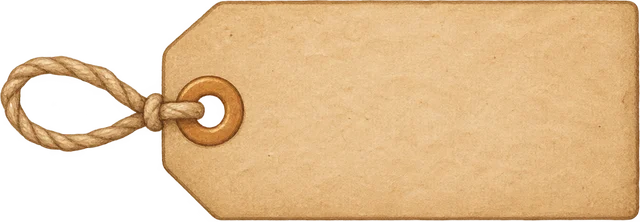
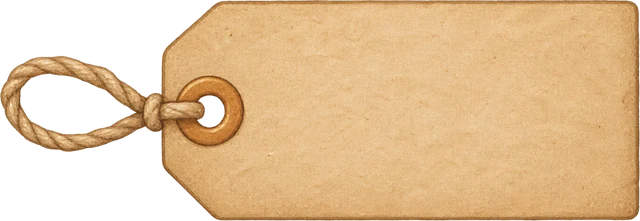
Nursery: echte Assets für Regalbrett, Steckschild und Wachssiegel
- scripts/make-nursery-assets.mjs: Halo (Alpha < 16) entfernen, Kantenpixel
  entsäumen, trimmen, WebP; Regalbrett als 3-Slice mit Metallhaltern in den
  Enden. luggage-tag.webp mit derselben Bereinigung neu erzeugt.
- Shelf: Brett aus drei Ebenen (Enden fest, Mitte gedehnt), Ware steht auf
  der Oberkante.
- PlantStake: Preis in wood-ink auf der Holztafel, Stab im Brett abgeschnitten.
- WaxSeal: Lv + Zahl in Creme in der Mulde (>= 4,56:1), -6 Grad.
- Schmale Regale verkleinern Steckschild und Siegel.
- robin-design: Nursery-Abschnitt mit Assets und Slice-Werten.

diff --git a/components/nursery/plant-stake.module.css b/components/nursery/plant-stake.module.css
@@ -1,43 +1,55 @@
-/* Plant stake — price board on a stick. PLACEHOLDER: dashed outlines in
-   the footprint of the coming asset. Text in ink on paper (≈ 10:1); the
-   painted stake keeps a light board so the price stays ≥ 4.5:1. */
+/* Plant stake — plant-stake.webp is 256 × 468: the board fills the full
+   width and the top 147 px (≈ 0.574 of the width), the stick runs below.
+   The element shows the board plus --stake-stick of the stick and clips
+   the rest, so the stake looks stuck into the shelf at its bottom edge.
+   Text: Fraunces in wood-ink, burnt in like the wooden sign button
+   (wood-ink on this light wood ≥ 7:1). */
 
 .stake {
-  display: inline-flex;
-  flex-direction: column;
-  align-items: center;
-  /* a stake is a small thing: a slight lean, opposite to nothing else in
-     the slot (the seal and tag sit elsewhere) */
-  transform: rotate(-3deg);
+  /* the shelf sets a smaller stake on narrow planks */
+  --stake-w: var(--shelf-stake-w, 4.75rem);
+  --stake-board-h: calc(var(--stake-w) * 147 / 256);
+  --stake-stick: 0.875rem;
+
+  position: relative;
+  display: block;
+  width: var(--stake-w);
+  height: calc(var(--stake-board-h) + var(--stake-stick));
+  overflow: hidden;
+  filter: var(--filter-wood);
+  /* a small lean from where it is stuck in */
+  transform: rotate(-2deg);
   transform-origin: 50% 100%;
 }
 
+.wood {
+  display: block;
+  width: 100%;
+  height: auto;
+  max-width: none;
+  -webkit-user-drag: none;
+  user-select: none;
+}
+
+/* The text box is the board, with room for its rounded rim. */
 .board {
-  display: inline-flex;
+  position: absolute;
+  top: 0;
+  left: 0;
+  width: 100%;
+  height: var(--stake-board-h);
+  display: flex;
   align-items: center;
+  justify-content: center;
   gap: 0.25rem;
-  min-width: 3.25rem;
-  padding: 0.25rem 0.5rem;
-  border: 1.5px dashed var(--color-ink-soft);
-  border-radius: 3px;
-  background: var(--color-paper);
-  filter: var(--filter-label);
+  padding: 0 0.3rem;
 }
 
 .price {
   font-family: var(--font-display), Georgia, serif;
   font-weight: 600;
-  font-size: 1rem;
-  line-height: 1.2;
-  color: var(--color-ink);
+  font-size: var(--shelf-stake-font, 1rem);
+  line-height: 1;
+  color: var(--color-wood-ink);
   white-space: nowrap;
-}
-
-.stick {
-  width: 0.3rem;
-  height: 1rem;
-  margin-top: -1px;
-  border: 1.5px dashed var(--color-ink-soft);
-  border-top: 0;
-  background: var(--color-paper-deep);
 }

diff --git a/components/nursery/shelf.module.css b/components/nursery/shelf.module.css
@@ -4,7 +4,7 @@
 
 .shelf {
   --stage-h: 9.5rem;
-  --plank-h: 1.5rem;
+  --plank-h: 2.25rem;
   --plank-overhang: 0.75rem;
   --slot-gap: 24px;
 
@@ -20,9 +20,14 @@
 
 .narrow {
   --stage-h: 8rem;
-  --plank-h: 1.25rem;
+  --plank-h: 1.875rem;
   --plank-overhang: 0.5rem;
   --slot-gap: 12px;
+  /* stake and seal scale down with the narrower slots (plant-stake,
+     wax-seal read these) */
+  --shelf-stake-w: 4.25rem;
+  --shelf-stake-font: 0.9375rem;
+  --shelf-seal-w: 3.5rem;
   gap: var(--space-6);
 }
 
@@ -47,32 +52,31 @@
 
 /* ---------- plank ---------- */
 
+/* shelf-plank-{left,middle,right}.webp, each 128 px high; the ends are
+   124 px wide and hold the metal brackets completely, the middle
+   (plain grain, 776 px) stretches between them. The board itself is the
+   top 62 % of the height, the brackets hang below it. The image's top
+   edge is the board's top edge, and the plank starts exactly at
+   --stage-h, so the goods stand on it, not in front of it. */
 .plank {
+  --plank-end: calc(var(--plank-h) * 124 / 128);
+
   position: absolute;
   top: var(--stage-h);
   left: calc(-1 * var(--plank-overhang));
   right: calc(-1 * var(--plank-overhang));
   height: var(--plank-h);
   pointer-events: none;
-}
-
-/* PLACEHOLDER: dashed board in the plank's footprint, a paper-deep fill
-   so it reads as a surface. */
-.plankPlaceholder {
-  border: 1.5px dashed var(--color-ink-soft);
-  border-radius: 3px;
-  background: var(--color-paper-deep);
-}
-
-/* Painted plank as 3-slice: the ends stay fixed, the middle tiles
-   (round) so the grain never smears. Slice values are for the coming
-   shelf-plank.webp — tune once it exists. */
-.plankAsset {
-  --plank-end-slice: 96;
-  --plank-end: 2.5rem;
-  border-style: solid;
-  border-width: 0 var(--plank-end);
-  border-image: var(--plank-src) 0 var(--plank-end-slice) fill / 0
-    var(--plank-end) round;
+  background-image: var(--plank-left), var(--plank-right), var(--plank-middle);
+  background-repeat: no-repeat;
+  background-position:
+    left top,
+    right top,
+    center top;
+  /* the middle reaches 1px under each end, so rounding never opens a gap */
+  background-size:
+    auto 100%,
+    auto 100%,
+    calc(100% - 2 * var(--plank-end) + 2px) 100%;
   filter: var(--filter-wood);
 }

diff --git a/components/nursery/shelf.tsx b/components/nursery/shelf.tsx
@@ -3,11 +3,21 @@
 import { useLayoutEffect, useRef, useState, type CSSProperties, type ReactNode } from "react";
 import styles from "./shelf.module.css";
 
-/** Painted plank (3-slice: fixed ends, tiled middle). null = dashed
-    placeholder until design-src/ui/shelf-plank.png exists; then convert
-    it to public/ui/shelf-plank.webp, set this path and tune the end
-    slice in shelf.module.css (.plankAsset). */
-const SHELF_PLANK_SRC: string | null = null;
+/** Painted plank as a 3-slice (original design-src/ui/shelf-plank.png,
+    cut by scripts/make-nursery-assets.mjs): both ends hold a metal
+    bracket and stay fixed, the plain-grain middle stretches. Each piece
+    is 128 px high, the ends 124 px wide (see .plank in shelf.module.css). */
+const SHELF_PLANK_SRC = {
+  left: "/ui/shelf-plank-left.webp",
+  middle: "/ui/shelf-plank-middle.webp",
+  right: "/ui/shelf-plank-right.webp",
+} as const;
+
+const PLANK_STYLE = {
+  "--plank-left": `url(${SHELF_PLANK_SRC.left})`,
+  "--plank-middle": `url(${SHELF_PLANK_SRC.middle})`,
+  "--plank-right": `url(${SHELF_PLANK_SRC.right})`,
+} as CSSProperties;
 
 /* Slot widths per item. Two per plank from 320 px (288 px inside the
    16 px gutters), up to six on wide screens. */
@@ -70,15 +80,7 @@ export function Shelf<T>({ items, getKey, renderItem, label }: ShelfProps<T>) {
     >
       {rows.map((row, index) => (
         <div key={index} className={styles.row}>
-          <span
-            className={`${styles.plank} ${SHELF_PLANK_SRC ? styles.plankAsset : styles.plankPlaceholder}`}
-            style={
-              SHELF_PLANK_SRC
-                ? ({ "--plank-src": `url(${SHELF_PLANK_SRC})` } as CSSProperties)
-                : undefined
-            }
-            aria-hidden="true"
-          />
+          <span className={styles.plank} style={PLANK_STYLE} aria-hidden="true" />
           {row.map((item) => (
             <div key={getKey(item)} role="listitem" className={styles.slot}>
               {renderItem(item)}

diff --git a/components/nursery/plant-stake.tsx b/components/nursery/plant-stake.tsx
@@ -9,12 +9,11 @@ type PlantStakeProps = {
 
 const numberFormat = new Intl.NumberFormat("en-US");
 
-/** The price on a plant stake that sticks in front of the packet
-    (robin-design §3 Nursery). Coin icon + price in Fraunces as live
-    text on the board.
-    PLACEHOLDER material: dashed board on a dashed stick, same footprint
-    the painted plant-stake.webp will get (design-src/ui/plant-stake.png
-    is still missing). */
+/** The price on a plant stake in front of the packet (robin-design §3
+    Nursery). Painted stake public/ui/plant-stake.webp (original
+    design-src/ui/plant-stake.png); coin icon + price in Fraunces as live
+    text, burnt into the board in wood-ink. Only the top of the stick
+    shows — the rest is "in" the shelf. */
 export function PlantStake({ price, className = "" }: PlantStakeProps) {
   const value = Number.isFinite(price) ? Math.max(0, Math.round(price)) : 0;
   return (
@@ -23,11 +22,12 @@ export function PlantStake({ price, className = "" }: PlantStakeProps) {
       role="img"
       aria-label={`${value} ${value === 1 ? "coin" : "coins"}`}
     >
+      {/* eslint-disable-next-line @next/next/no-img-element */}
+      <img className={styles.wood} src="/ui/plant-stake.webp" alt="" />
       <span className={styles.board}>
         <GameIcon name="coin" size={16} />
         <span className={styles.price}>{numberFormat.format(value)}</span>
       </span>
-      <span className={styles.stick} aria-hidden="true" />
     </span>
   );
 }

diff --git a/components/nursery/wax-seal.module.css b/components/nursery/wax-seal.module.css
@@ -1,20 +1,31 @@
-/* Wax seal — PLACEHOLDER: dashed rust circle on paper. stamp-rust text on
-   paper 4.89:1. The painted seal will be deep red; its text then flips to
-   paper (checked against the asset when it lands). */
+/* Wax seal — wax-seal.webp is 192 × 203; the hollow's centre sits at
+   48.0 % / 48.2 %, its diameter is ≈ 70 % of the width. Text in cream
+   (--color-canvas) on the hollow: ≥ 4.56:1 on its lightest spot, 5.7:1
+   on average (the asset is darkened a touch for this, see
+   scripts/make-nursery-assets.mjs). Turned −6° like a seal pressed by
+   hand. */
 
 .seal {
-  display: inline-flex;
+  --seal-w: var(--shelf-seal-w, 4rem);
+
+  position: relative;
+  display: block;
+  width: var(--seal-w);
+  aspect-ratio: 192 / 203;
+  background: url("/ui/wax-seal.webp") center / 100% 100% no-repeat;
+  filter: var(--filter-label);
+  transform: rotate(-6deg);
+}
+
+.text {
+  position: absolute;
+  left: 48%;
+  top: 48.2%;
+  translate: -50% -50%;
+  display: flex;
   flex-direction: column;
   align-items: center;
-  justify-content: center;
-  width: 3.25rem;
-  height: 3.25rem;
-  border: 2px dashed var(--color-stamp-rust);
-  border-radius: 50%;
-  background: var(--color-paper);
-  color: var(--color-stamp-rust);
-  filter: var(--filter-label);
-  transform: rotate(4deg);
+  color: var(--color-canvas);
 }
 
 .kicker {

diff --git a/components/nursery/wax-seal.tsx b/components/nursery/wax-seal.tsx
@@ -6,18 +6,19 @@ type WaxSealProps = {
   className?: string;
 };
 
-/** A wax seal on a locked item, with the unlock level as real text.
-    Replaces the lock icon and the "Unlock at Level X" sign. Decorative
-    for screen readers — the item's aria-label carries "locked until
-    level X".
-    PLACEHOLDER material: dashed rust circle in the footprint of the
-    coming wax-seal.webp (design-src/ui/wax-seal.png is still missing). */
+/** A wax seal on a locked item, with the unlock level as real text in
+    the seal's hollow. Replaces the lock icon and the "Unlock at Level X"
+    sign. Decorative for screen readers — the item's aria-label carries
+    "locked until level X". Painted seal public/ui/wax-seal.webp
+    (original design-src/ui/wax-seal.png). */
 export function WaxSeal({ level, className = "" }: WaxSealProps) {
   const value = Number.isFinite(level) ? Math.max(1, Math.round(level)) : 1;
   return (
     <span className={`${styles.seal} ${className}`} aria-hidden="true">
-      <span className={styles.kicker}>Lv</span>
-      <span className={styles.level}>{value}</span>
+      <span className={styles.text}>
+        <span className={styles.kicker}>Lv</span>
+        <span className={styles.level}>{value}</span>
+      </span>
     </span>
   );
 }

diff --git a/components/nursery/nursery-item.module.css b/components/nursery/nursery-item.module.css
@@ -58,8 +58,8 @@
 /* The stake sticks into the plank in front of the goods' right corner. */
 .stake {
   position: absolute;
-  right: 0;
-  bottom: -0.25rem;
+  right: -0.25rem;
+  bottom: 0;
   z-index: 2;
 }
 

diff --git a/.claude/skills/robin-design/SKILL.md b/.claude/skills/robin-design/SKILL.md
@@ -93,17 +93,37 @@ Journal (noch offen).
     Hinweiszettel, „Bought ✓“, `InventoryBadge`) unverändert übernommen.
   - **Kaufen auf dem Regal = `secondary`-Button (Tintenrahmen)**, steht auf der Papierwand
     unter dem Brett. Das Holzschild ist für eine spätere Detail-Ansicht reserviert.
-  - `PlantStake` (`plant-stake.tsx`): `GameIcon coin` 16 + Preis in Fraunces 600 als Text,
-    vorn rechts an der Tüte, steckt im Brett; `aria-label` „N coins“.
+  - `PlantStake` (`plant-stake.tsx`): `GameIcon coin` 16 + Preis in Fraunces 600 als Text in
+    `wood-ink`, zentriert nur auf der oberen Holztafel; vorn rechts an der Tüte, −2°. Sichtbar
+    sind Tafel + 0,875rem Stab, der Rest ist abgeschnitten (steckt im Brett). `aria-label`
+    „N coins“.
   - Gesperrt: Ware `saturate(0.4)` + `opacity 0.8`, `WaxSeal` (`wax-seal.tsx`, „Lv“ + Zahl als
     Text) oben auf der Ware, kein Buy und kein „Unlock at Level X“-Schild mehr; das Item behält
     `aria-label` „…, locked until level X“. Steckschild bleibt farbig (Preis lesbar).
   - Reiter All/Plants/Decor: Fraunces-Wörter nebeneinander, der gewählte mit der
     ChoiceGroup-Tintenellipse, `FocusFrame`; WAI-ARIA-Tabs und `lib/shop/shop-tabs.ts`
     unverändert. Seitentitel „Nursery“.
-  - **Platzhalter** (gestrichelt, in Asset-Größe), bis die Originale in `design-src/ui/`
-    liegen: `shelf-plank.png` (3-Slice, Enden fest, Mitte `round`; `SHELF_PLANK_SRC` in
-    `shelf.tsx` setzen, Slice in `.plankAsset` anpassen), `plant-stake.png`, `wax-seal.png`.
+  - **Assets (2026-11-22, echte Bilder statt Platzhalter)**, erzeugt mit
+    `node scripts/make-nursery-assets.mjs` aus `design-src/ui/`. Die Originale haben einen
+    breiten Hof aus fast unsichtbaren Pixeln (Alpha 1–15) und an der Kante einzelne
+    reingelbe/-rote Pixel → gelb-roter Saum, den die Schatten-Filter verstärken. Das Skript
+    setzt Alpha < 16 auf 0, färbt jedes Kantenpixel (Alpha < 200) mit der Farbe des nächsten
+    deckenden Pixels (≤ 6 px) ein, trimmt und speichert als WebP. Gilt auch für
+    `luggage-tag.webp`.
+    - **Regalbrett** `shelf-plank-left|middle|right.webp` (je 128 px hoch; Enden 124 px breit
+      mit den Metallhaltern komplett, Schnitt im Original bei x 300 und x 1870, Halter bei
+      146–266 und 1905–2022; Mitte 776 px glatte Maserung, wird gedehnt). `SHELF_PLANK_SRC` in
+      `shelf.tsx`; in `shelf.module.css` drei Hintergrund-Ebenen, Enden `auto 100%`, Mitte
+      `calc(100% − 2 × Ende + 2px) 100%`, Ende = `--plank-h × 124/128`. Das Brett ist die obere
+      Hälfte (62 %) der Höhe, darunter hängen die Halter. `--plank-h` 2,25rem (unter 600 px
+      1,875rem). Bildoberkante = Brettoberkante = `--stage-h`: die Ware steht darauf.
+    - **Steckschild** `plant-stake.webp` 256 × 468, Tafel = volle Breite × obere 147 px.
+      `--stake-w` 4,75rem; unter 600 px setzt das Regal `--shelf-stake-w` 4,25rem und
+      `--shelf-stake-font` 0,9375rem (passt bis „5,000“), `--shelf-seal-w` 3,5rem.
+    - **Wachssiegel** `wax-seal.webp` 192 × 203, Mulde mittig bei 48,0 % / 48,2 %, Ø ≈ 70 %.
+      Im Skript um 6 % abgedunkelt (sRGB × 0,94), damit Creme-Text (`--color-canvas`) auf der
+      hellsten Stelle der Mulde noch 4,56:1 hat (Mittel 5,7:1; `paper` wäre mit 4,30:1 zu
+      schwach). „Lv“ Courier 13 px + Zahl Fraunces 600 1,25rem, Siegel 4rem, −6° gedreht.
   - Noch offen: Fantasie-Lateinnamen, Tütenrückseite (Umdrehen), Holzwand als Hintergrund
     (die Wand ist vorerst die Papierfläche der Seite).
 
